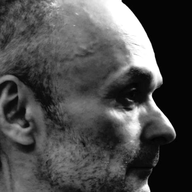
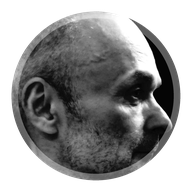
baa: круглая иконка вкладки
Портрет в круге с небольшим полем и прозрачными углами, голова по центру,
тонкая светлая обводка — чтобы на тёмной панели вкладок иконка не
сливалась. Адреса иконок с ?v=2, чтобы браузеры не держали старую.

Claude-Session: https://claude.ai/code/session_01BDtVaUdwnBKSxykXmhjaAn

diff --git a/baa/index.html b/baa/index.html
@@ -5,10 +5,10 @@
 <meta name="viewport" content="width=device-width, initial-scale=1, viewport-fit=cover">
 <!--head:start-->
 <title>Alexander Belyshkin</title>
-<link rel="icon" href="favicon.ico" sizes="48x48">
-<link rel="icon" type="image/png" sizes="32x32" href="assets/favicon-32.png">
-<link rel="icon" type="image/png" sizes="64x64" href="assets/favicon-64.png">
-<link rel="icon" type="image/png" sizes="192x192" href="assets/icon-192.png">
+<link rel="icon" href="favicon.ico?v=2" sizes="48x48">
+<link rel="icon" type="image/png" sizes="32x32" href="assets/favicon-32.png?v=2">
+<link rel="icon" type="image/png" sizes="64x64" href="assets/favicon-64.png?v=2">
+<link rel="icon" type="image/png" sizes="192x192" href="assets/icon-192.png?v=2">
 <link rel="apple-touch-icon" href="assets/apple-touch-icon.png">
 <meta name="claude:viewport-fit-sides" content="cover">
 <meta name="description" content="People don’t see what they actually do without a useful feedback loop. Alexander Belyshkin, a psychologist, has been learning to build such loops since 1997 and helping others build them: in interruption research, in usability research and user testing at Usethics, and now in feedback tools.">

diff --git a/baa/texts/interface-design-in-the-spec/index.html b/baa/texts/interface-design-in-the-spec/index.html
@@ -4,10 +4,10 @@
 <meta charset="utf-8">
 <meta name="viewport" content="width=device-width, initial-scale=1, viewport-fit=cover">
 <title>Interface design as part of writing the specification — Alexander Belyshkin</title>
-<link rel="icon" href="../../favicon.ico" sizes="48x48">
-<link rel="icon" type="image/png" sizes="32x32" href="../../assets/favicon-32.png">
-<link rel="icon" type="image/png" sizes="64x64" href="../../assets/favicon-64.png">
-<link rel="icon" type="image/png" sizes="192x192" href="../../assets/icon-192.png">
+<link rel="icon" href="../../favicon.ico?v=2" sizes="48x48">
+<link rel="icon" type="image/png" sizes="32x32" href="../../assets/favicon-32.png?v=2">
+<link rel="icon" type="image/png" sizes="64x64" href="../../assets/favicon-64.png?v=2">
+<link rel="icon" type="image/png" sizes="192x192" href="../../assets/icon-192.png?v=2">
 <link rel="apple-touch-icon" href="../../assets/apple-touch-icon.png">
 <meta name="description" content="Designing the interface belongs to specifying a system, not to building it. A 2003 article by Vlad Golovach and Alexander Belyshkin.">
 <meta name="color-scheme" content="light">

diff --git a/baa/texts/testing-interfaces/index.html b/baa/texts/testing-interfaces/index.html
@@ -4,10 +4,10 @@
 <meta charset="utf-8">
 <meta name="viewport" content="width=device-width, initial-scale=1, viewport-fit=cover">
 <title>Testing interfaces — Alexander Belyshkin</title>
-<link rel="icon" href="../../favicon.ico" sizes="48x48">
-<link rel="icon" type="image/png" sizes="32x32" href="../../assets/favicon-32.png">
-<link rel="icon" type="image/png" sizes="64x64" href="../../assets/favicon-64.png">
-<link rel="icon" type="image/png" sizes="192x192" href="../../assets/icon-192.png">
+<link rel="icon" href="../../favicon.ico?v=2" sizes="48x48">
+<link rel="icon" type="image/png" sizes="32x32" href="../../assets/favicon-32.png?v=2">
+<link rel="icon" type="image/png" sizes="64x64" href="../../assets/favicon-64.png?v=2">
+<link rel="icon" type="image/png" sizes="192x192" href="../../assets/icon-192.png?v=2">
 <link rel="apple-touch-icon" href="../../assets/apple-touch-icon.png">
 <meta name="description" content="Developers test their code for bugs but rarely test the interface. A 2002 article by Alexander Belyshkin and Alexey Lukutin.">
 <meta name="color-scheme" content="light">

diff --git a/baa/texts/user-interface-checklist/index.html b/baa/texts/user-interface-checklist/index.html
@@ -4,10 +4,10 @@
 <meta charset="utf-8">
 <meta name="viewport" content="width=device-width, initial-scale=1, viewport-fit=cover">
 <title>A user interface checklist — Alexander Belyshkin</title>
-<link rel="icon" href="../../favicon.ico" sizes="48x48">
-<link rel="icon" type="image/png" sizes="32x32" href="../../assets/favicon-32.png">
-<link rel="icon" type="image/png" sizes="64x64" href="../../assets/favicon-64.png">
-<link rel="icon" type="image/png" sizes="192x192" href="../../assets/icon-192.png">
+<link rel="icon" href="../../favicon.ico?v=2" sizes="48x48">
+<link rel="icon" type="image/png" sizes="32x32" href="../../assets/favicon-32.png?v=2">
+<link rel="icon" type="image/png" sizes="64x64" href="../../assets/favicon-64.png?v=2">
+<link rel="icon" type="image/png" sizes="192x192" href="../../assets/icon-192.png?v=2">
 <link rel="apple-touch-icon" href="../../assets/apple-touch-icon.png">
 <meta name="description" content="A checklist anyone can run against an interface, with no subjective items. By Vlad Golovach and Alexander Belyshkin.">
 <meta name="color-scheme" content="light">

diff --git a/baa/revizor/index.html b/baa/revizor/index.html
@@ -4,10 +4,10 @@
 <meta charset="utf-8">
 <meta name="viewport" content="width=device-width, initial-scale=1, viewport-fit=cover">
 <title>The Government Inspector — audiobook</title>
-<link rel="icon" href="../favicon.ico" sizes="48x48">
-<link rel="icon" type="image/png" sizes="32x32" href="../assets/favicon-32.png">
-<link rel="icon" type="image/png" sizes="64x64" href="../assets/favicon-64.png">
-<link rel="icon" type="image/png" sizes="192x192" href="../assets/icon-192.png">
+<link rel="icon" href="../favicon.ico?v=2" sizes="48x48">
+<link rel="icon" type="image/png" sizes="32x32" href="../assets/favicon-32.png?v=2">
+<link rel="icon" type="image/png" sizes="64x64" href="../assets/favicon-64.png?v=2">
+<link rel="icon" type="image/png" sizes="192x192" href="../assets/icon-192.png?v=2">
 <link rel="apple-touch-icon" href="../assets/apple-touch-icon.png">
 <meta name="description" content="Nikolai Gogol's comedy The Government Inspector (Revizor) as an audiobook in Russian, read by Alexander Belyshkin.">
 <meta name="color-scheme" content="light">
